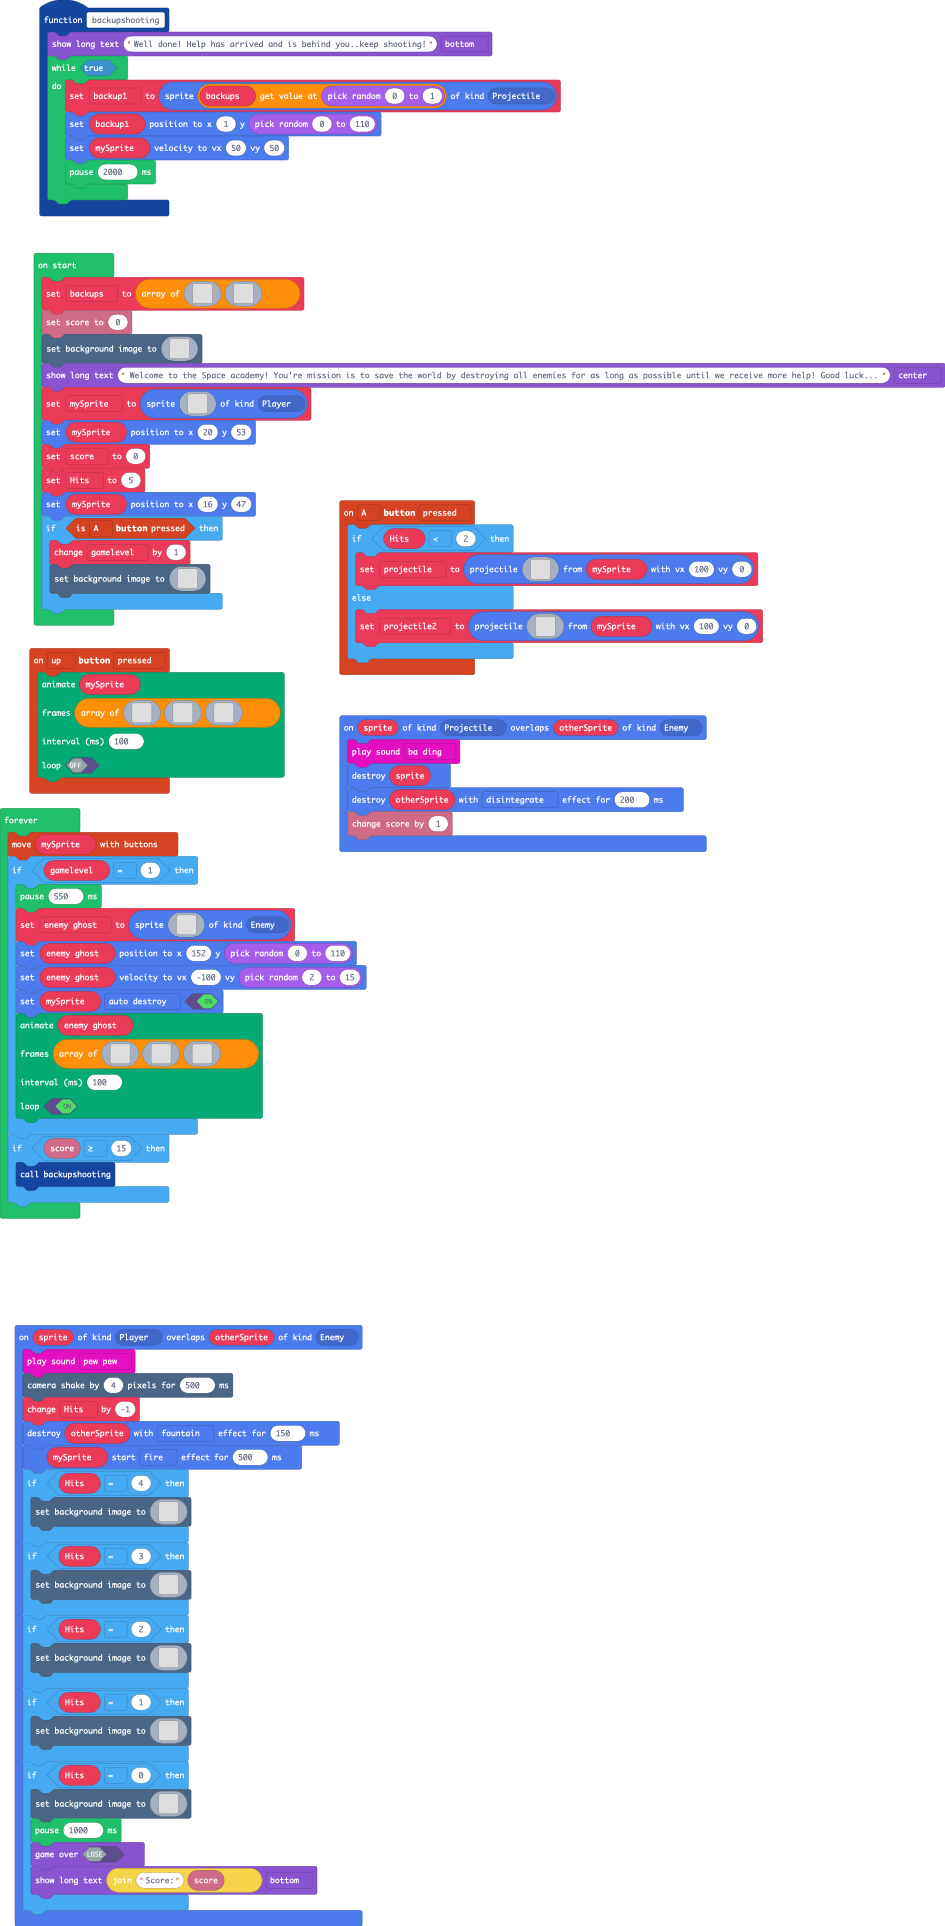
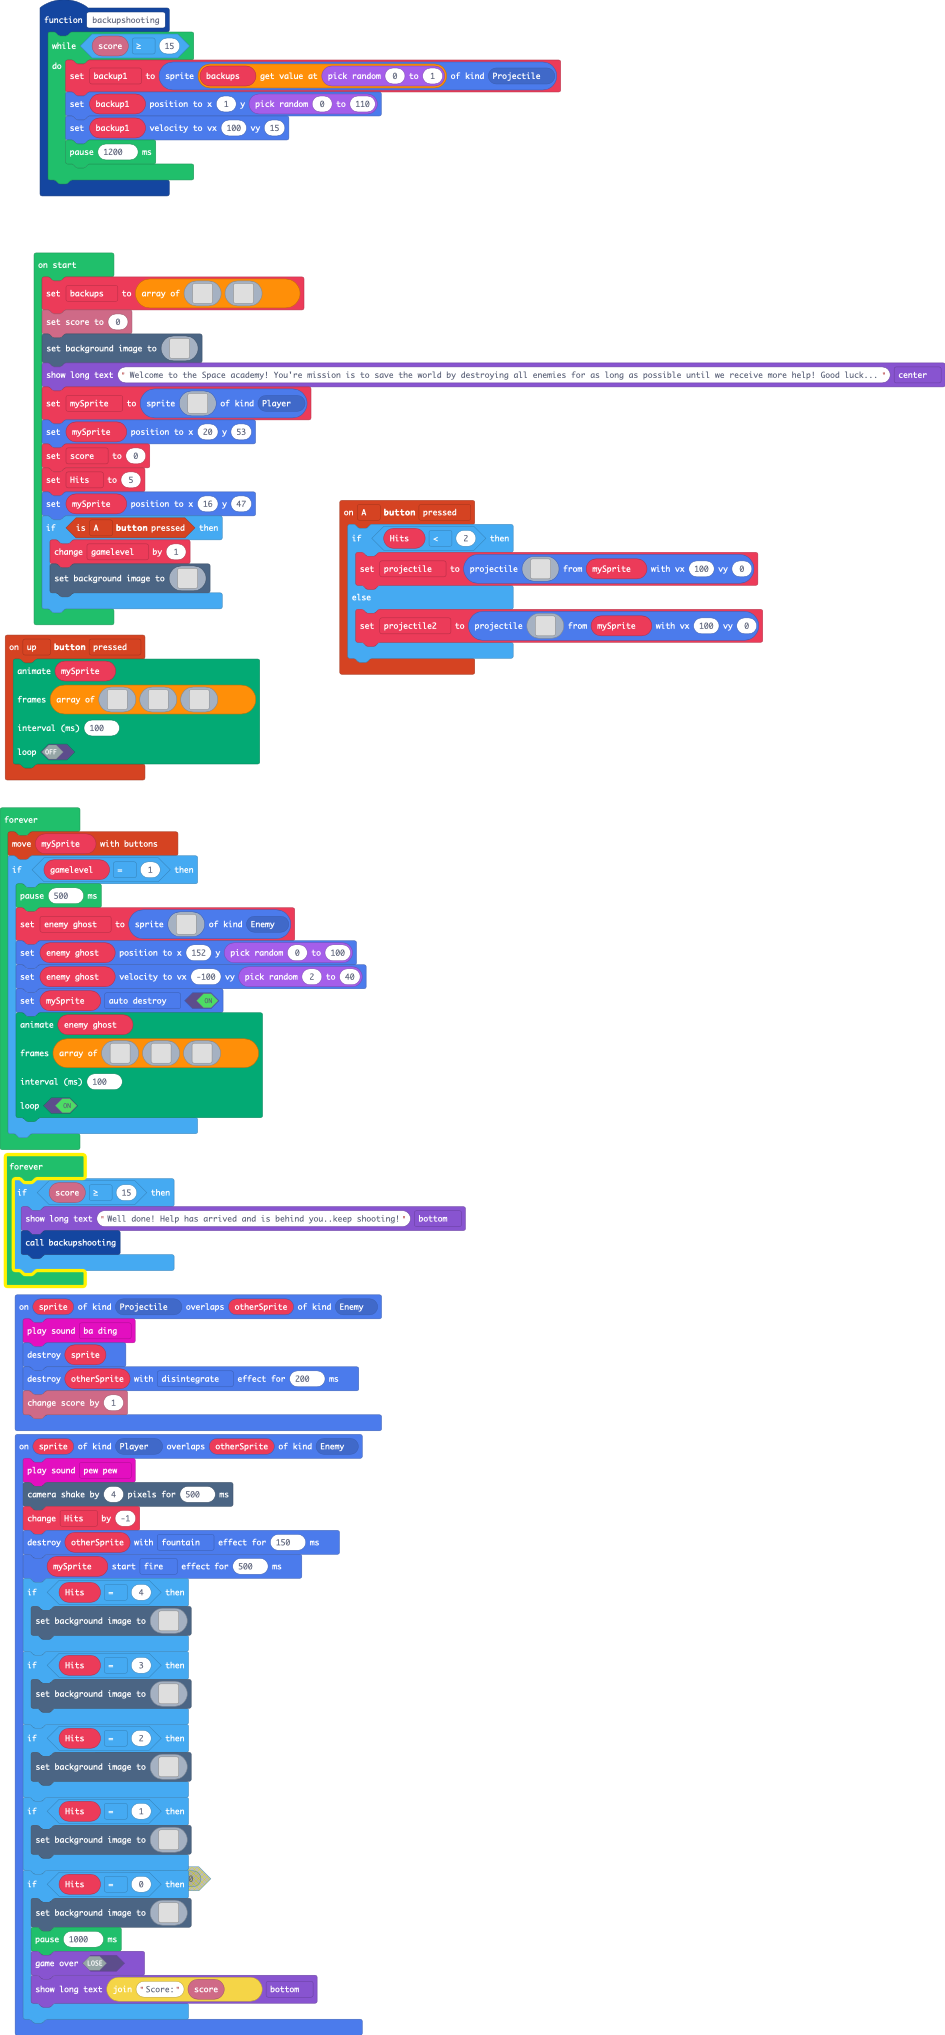
done all changes and works!!

Changed region(s): [[0.0, 0.0, 1.0, 0.9969]]

diff --git a/main.ts b/main.ts
@@ -1,3 +1,8 @@
+enum ActionKind {
+    Walking,
+    Idle,
+    Jumping
+}
 namespace myTiles {
     //% blockIdentity=images._tile
     export const tile0 = img`
@@ -19,21 +24,20 @@ namespace myTiles {
 . . . . . . . . . . . . . . . . 
 `
 }
-function backupshooting () {
-    game.showLongText("Well done! Help has arrived and is behind you..keep shooting!", DialogLayout.Bottom)
-    while (true) {
-        backup1 = sprites.create(backups[Math.randomRange(0, 1)], SpriteKind.Projectile)
-        backup1.setPosition(1, Math.randomRange(0, 110))
-        mySprite.setVelocity(50, 50)
-        pause(2000)
-    }
-}
 sprites.onOverlap(SpriteKind.Projectile, SpriteKind.Enemy, function (sprite, otherSprite) {
     music.baDing.play()
     sprite.destroy()
     otherSprite.destroy(effects.disintegrate, 200)
     info.changeScoreBy(1)
 })
+function backupshooting () {
+    while (info.score() >= 15) {
+        backup1 = sprites.create(backups[Math.randomRange(0, 1)], SpriteKind.Projectile)
+        backup1.setPosition(1, Math.randomRange(0, 110))
+        backup1.setVelocity(100, 15)
+        pause(1200)
+    }
+}
 controller.A.onEvent(ControllerButtonEvent.Pressed, function () {
     if (Hits < 2) {
         projectile = sprites.createProjectileFromSprite(img`
@@ -792,8 +796,8 @@ let enemy_ghost: Sprite = null
 let projectile2: Sprite = null
 let projectile: Sprite = null
 let backup1: Sprite = null
-let gamelevel: number = []
-let Hits: number = []
+let gamelevel = 0
+let Hits = 0
 let mySprite: Sprite = null
 let backups: Image[] = []
 backups = [img`
@@ -1113,7 +1117,7 @@ if (controller.A.isPressed()) {
 forever(function () {
     controller.moveSprite(mySprite)
     if (gamelevel == 1) {
-        pause(550)
+        pause(500)
         enemy_ghost = sprites.create(img`
 . . . . . . . . . . . . . . . . . . . . . . . . 
 . . . . . . . . . . . . . . . . . . . . . . . . 
@@ -1140,8 +1144,8 @@ forever(function () {
 . . . . . . . . . . . . . . . . . . . . . . . . 
 . . . . . . . . . . . . . . . . . . . . . . . . 
 `, SpriteKind.Enemy)
-        enemy_ghost.setPosition(152, Math.randomRange(0, 110))
-        enemy_ghost.setVelocity(-100, Math.randomRange(2, 15))
+        enemy_ghost.setPosition(152, Math.randomRange(0, 100))
+        enemy_ghost.setVelocity(-100, Math.randomRange(2, 40))
         mySprite.setFlag(SpriteFlag.AutoDestroy, true)
         animation.runImageAnimation(
         enemy_ghost,
@@ -1225,7 +1229,10 @@ forever(function () {
         true
         )
     }
+})
+forever(function () {
     if (info.score() >= 15) {
+        game.showLongText("Well done! Help has arrived and is behind you..keep shooting!", DialogLayout.Bottom)
         backupshooting()
     }
 })
